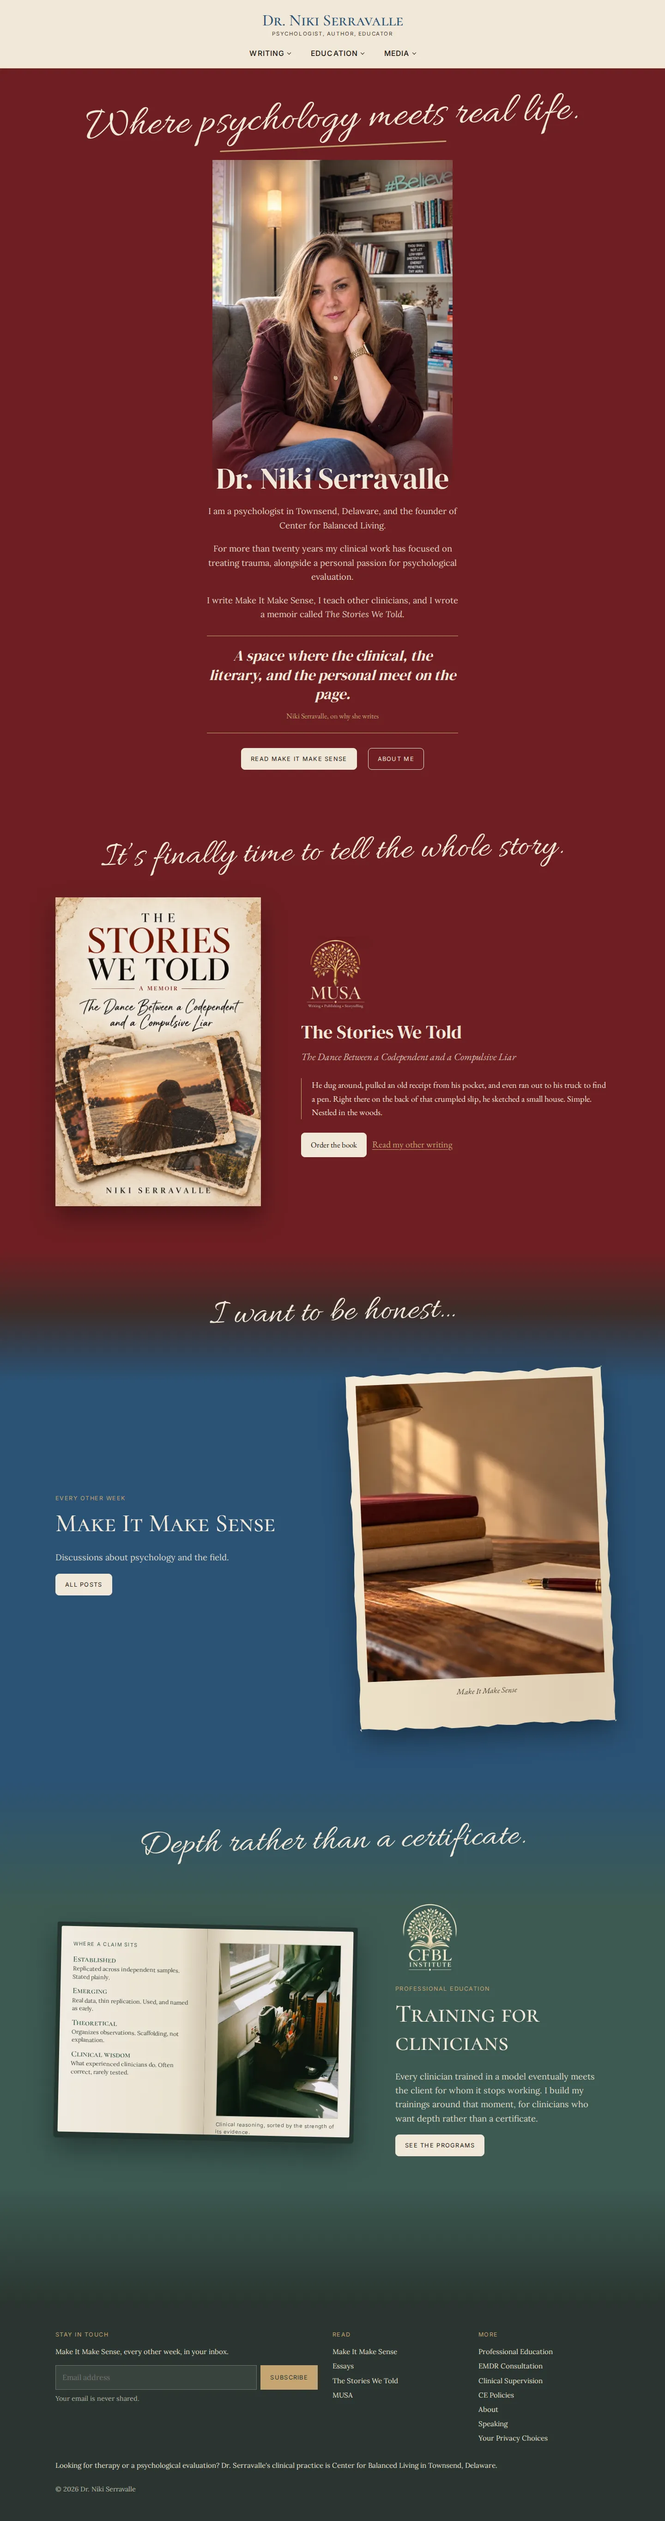
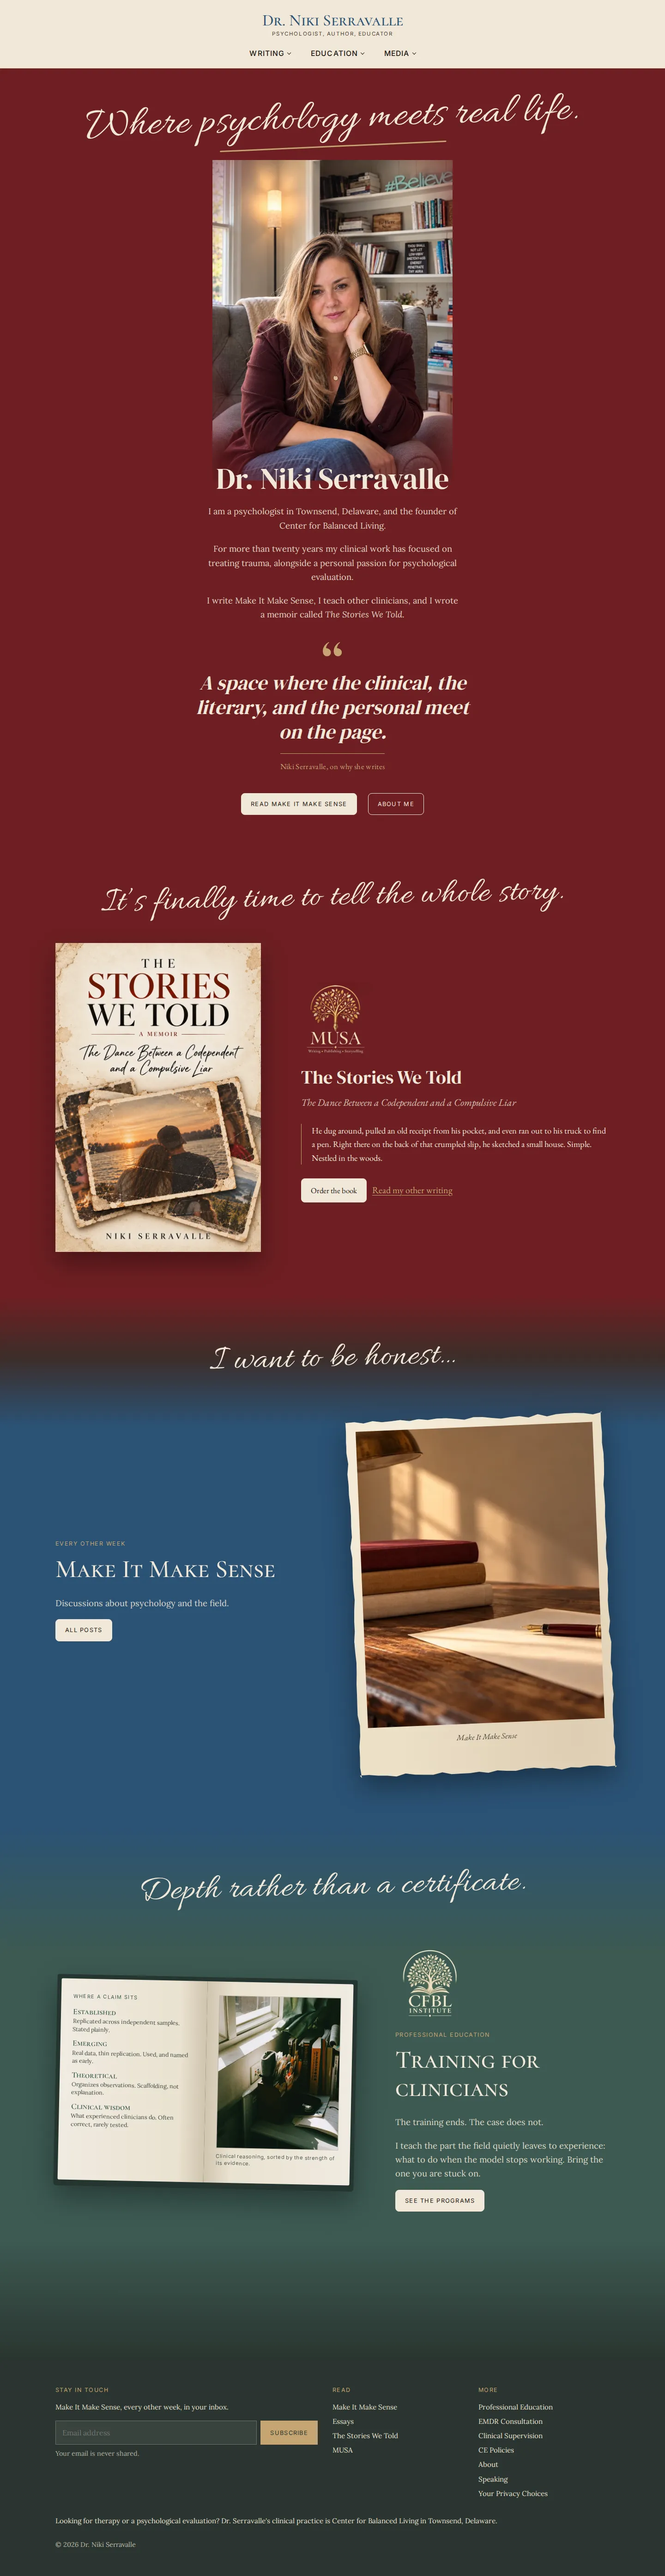
drserravalle theme: quote styling, textbook overflow fix, training card in Niki's card lines
Claude-Session: https://claude.ai/code/session_01PNTKRciZknXhVWVEiJrrtz

diff --git a/drserravalle/theme/assets/drs.css b/drserravalle/theme/assets/drs.css
@@ -574,3 +574,21 @@ p { margin: 0 0 1.1em; }
 .intro__hook { font-size: clamp(3.4rem, 7.6vw, 5.8rem); transform: rotate(-2deg); }
 .band__hook, .book__hook { font-size: clamp(3rem, 6.2vw, 4.8rem); transform: rotate(-1.5deg); }
 .band__hook { top: 96px; }
+
+/* The quote reads as a quote (Niki, 14 Nov): a large opening mark, bigger type,
+   no hairline box, attribution under a short rule. */
+.intro__quote { border: 0; padding: 0; margin: 56px auto 44px; max-width: 38rem; position: relative; }
+.intro__quote::before { content: "\201C"; display: block; font-family: "DM Serif Display", Georgia, serif; font-size: 7rem; line-height: .6; height: 3.2rem; color: var(--ochre); }
+.intro__quote p { font-size: clamp(1.9rem, 3.3vw, 2.7rem); line-height: 1.22; margin-bottom: 20px; }
+.intro__quote cite { display: inline-block; padding-top: 14px; border-top: 1px solid var(--ochre); font-size: 1.05rem; letter-spacing: .02em; }
+
+/* Textbook: the plate no longer stretches to the page height, so the caption and
+   the facing page text stay inside the book. */
+.tb__page--r img { height: auto; }
+.tb__page { padding-bottom: 30px; }
+@media (max-width: 860px) {
+  .tb__page { padding: 16px 12px 18px; }
+  .tb__tier strong { font-size: 1rem; }
+  .tb__tier span { font-size: .74rem; line-height: 1.35; }
+  .tb__page--r figcaption { font-size: .66rem; }
+}
